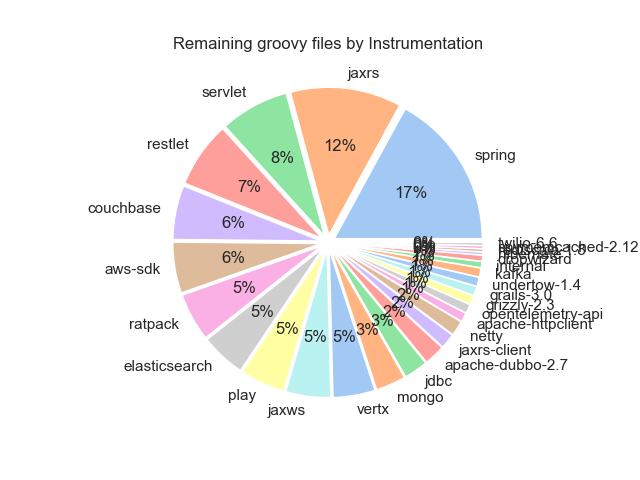
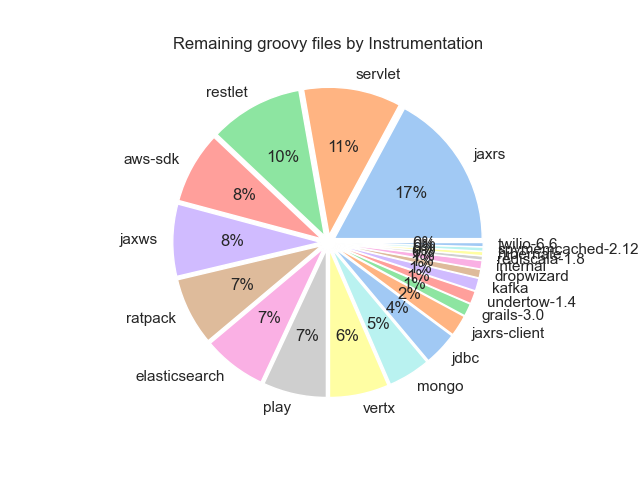
include file size information

diff --git a/count_by_instrumentation.py b/count_by_instrumentation.py
@@ -23,7 +23,7 @@ class App:
 
     def get_repository_by_commit(self, repository, commit):
         repo_data = self.client.get_repository_at_commit(repository, commit)
-        repo_data = self.data_filter.parse_data(repo_data)
+        repo_data = self.data_filter.get_file_counts_and_lengths(repo_data)
 
         return repo_data
 
@@ -42,25 +42,32 @@ def main(args):
         repository=args.repo,
         commit=commit
     )
-    count = count_by_language_and_file_extension(files=repo_files["files"],
-                                                 languages=[args.language])
+    file_counts, file_sizes = count_by_language_and_file_extension(
+        files=repo_files["files"],
+        languages=[args.language])
 
-    df = pd.DataFrame(list(count.items()), columns=['Key', 'Value'])
+    # Print the table showing file counts and sizes
+    data = [(key, file_counts[key], file_sizes[key]) for key in file_counts.keys()]
+    df2 = pd.DataFrame(data, columns=['Key', 'File Count', 'Total File Size'])
+    df2 = df2.sort_values(by='Total File Size', key=lambda col: col.astype(int),
+                          ascending=False)
+
+    print(df2.to_markdown(index=False))
+    print(f"| Total | {df2['File Count'].sum()} | {df2['Total File Size'].sum()} |")
+
+    # Create a pie chart for file counts only
+    df = pd.DataFrame(list(file_counts.items()), columns=['Key', 'Value'])
     df = df.sort_values(by='Value', key=lambda col: col.astype(int), ascending=False)
 
     sns.set_theme()
     colors = sns.color_palette('pastel')[0:len(df)]
 
-    # Create a pie chart
     explode = [0.05] * len(df)  # this will "explode" each slice from the pie
     df.set_index('Key')['Value'].plot.pie(autopct='%1.0f%%', colors=colors,
                                           explode=explode)
 
     plt.title(f'Remaining {args.language} files by Instrumentation')
     plt.ylabel('')
-
-    print(df.to_markdown(index=False))
-    print(f"| Total | {df['Value'].sum()} |")
 
     if args.output is not None:
         plt.savefig(args.output)

diff --git a/utilities.py b/utilities.py
@@ -2,6 +2,8 @@ from datetime import datetime, timedelta
 from collections import defaultdict
 from typing import List, Dict
 
+from CodeFile import CodeFile
+
 
 def get_dates_between(start_date_str, end_date, interval):
     date_format = "%Y-%m-%d"
@@ -37,17 +39,20 @@ def count_by_file_extension(files: List[str], languages: List[str]) -> dict:
     return file_counts
 
 
-def count_by_language_and_file_extension(files: List[str], languages: List[str]) -> Dict[str, Dict[str, int]]:
-    counts = defaultdict(int)
+def count_by_language_and_file_extension(files: List[CodeFile], languages: List[str]) -> Dict[str, Dict[str, int]]:
+    file_counts = defaultdict(int)
+    file_sizes = defaultdict(int)
     for file in files:
-        file_parts = file.split('/')
+        file_parts = file.path.split('/')
         if len(file_parts) < 3:
             continue
         instrumentation = file_parts[1]
         extension = file_parts[-1].split('.')[-1]
         if extension in languages:
-            counts[instrumentation] += 1
-    return counts
+            file_counts[instrumentation] += 1
+            file_sizes[instrumentation] += file.size
+    return file_counts, file_sizes
+
 
 def convert_to_plot(input_dict: dict, items):
     result = {}

diff --git a/data_filter.py b/data_filter.py
@@ -1,5 +1,7 @@
 from typing import List
 
+from CodeFile import CodeFile
+
 
 class DataFilter:
 
@@ -28,6 +30,20 @@ class DataFilter:
                     and self.matches_file_extensions(i["path"]) \
                     and self.matches_directory(i["path"]):
                 data_result.append(i["path"])
+
+        json_result = {
+            "files": data_result
+        }
+        return json_result
+
+    def get_file_counts_and_lengths(self, payload):
+        data_result = []
+        tree = payload["tree"]
+        for i in tree:
+            if self.matches_meta(i) \
+                    and self.matches_file_extensions(i["path"]) \
+                    and self.matches_directory(i["path"]):
+                data_result.append(CodeFile(path=i["path"], size=i["size"]))
 
         json_result = {
             "files": data_result

diff --git a/CodeFile.py b/CodeFile.py
@@ -1,0 +1,4 @@
+class CodeFile:
+    def __init__(self, path: str, size: int):
+        self.path = path
+        self.size = size

diff --git a/readme.md b/readme.md
@@ -103,37 +103,30 @@ In the `open-telemetry/opentelemetry-java-instrumentation` repository, analyze t
 
 Output: 
 
-| Key               | Value |
-|:------------------|------:|
-| spring            |    52 |
-| jaxrs             |    37 |
-| servlet           |    23 |
-| restlet           |    22 |
-| couchbase         |    18 |
-| aws-sdk           |    17 |
-| ratpack           |    16 |
-| elasticsearch     |    15 |
-| play              |    15 |
-| jaxws             |    15 |
-| vertx             |    14 |
-| mongo             |    10 |
-| jdbc              |     8 |
-| apache-dubbo-2.7  |     7 |
-| jaxrs-client      |     5 |
-| netty             |     5 |
-| apache-httpclient |     3 |
-| opentelemetry-api |     3 |
-| grizzly-2.3       |     3 |
-| grails-3.0        |     3 |
-| undertow-1.4      |     3 |
-| kafka             |     3 |
-| internal          |     2 |
-| dropwizard        |     2 |
-| hibernate         |     1 |
-| rediscala-1.8     |     1 |
-| spymemcached-2.12 |     1 |
-| twilio-6.6        |     1 |
-| Total             |   305 |
+| Key               | File Count | Total File Size |
+|:------------------|-----------:|----------------:|
+| servlet           |         23 |          143182 |
+| aws-sdk           |         17 |          127827 |
+| jdbc              |          8 |           90890 |
+| elasticsearch     |         15 |           90341 |
+| jaxrs             |         37 |           72352 |
+| vertx             |         14 |           56845 |
+| ratpack           |         16 |           51932 |
+| mongo             |         10 |           51661 |
+| play              |         15 |           48986 |
+| restlet           |         22 |           38226 |
+| jaxws             |         17 |           21595 |
+| kafka             |          3 |           21505 |
+| twilio-6.6        |          1 |           18936 |
+| jaxrs-client      |          5 |           16067 |
+| spymemcached-2.12 |          1 |           15630 |
+| undertow-1.4      |          3 |           12754 |
+| hibernate         |          1 |           12167 |
+| dropwizard        |          2 |           10789 |
+| rediscala-1.8     |          1 |            3898 |
+| grails-3.0        |          3 |            3201 |
+| internal          |          2 |            2603 |
+| Total             |        216 |          911387 |
 
 ![Example](./media/example_pie_output.png)
 
